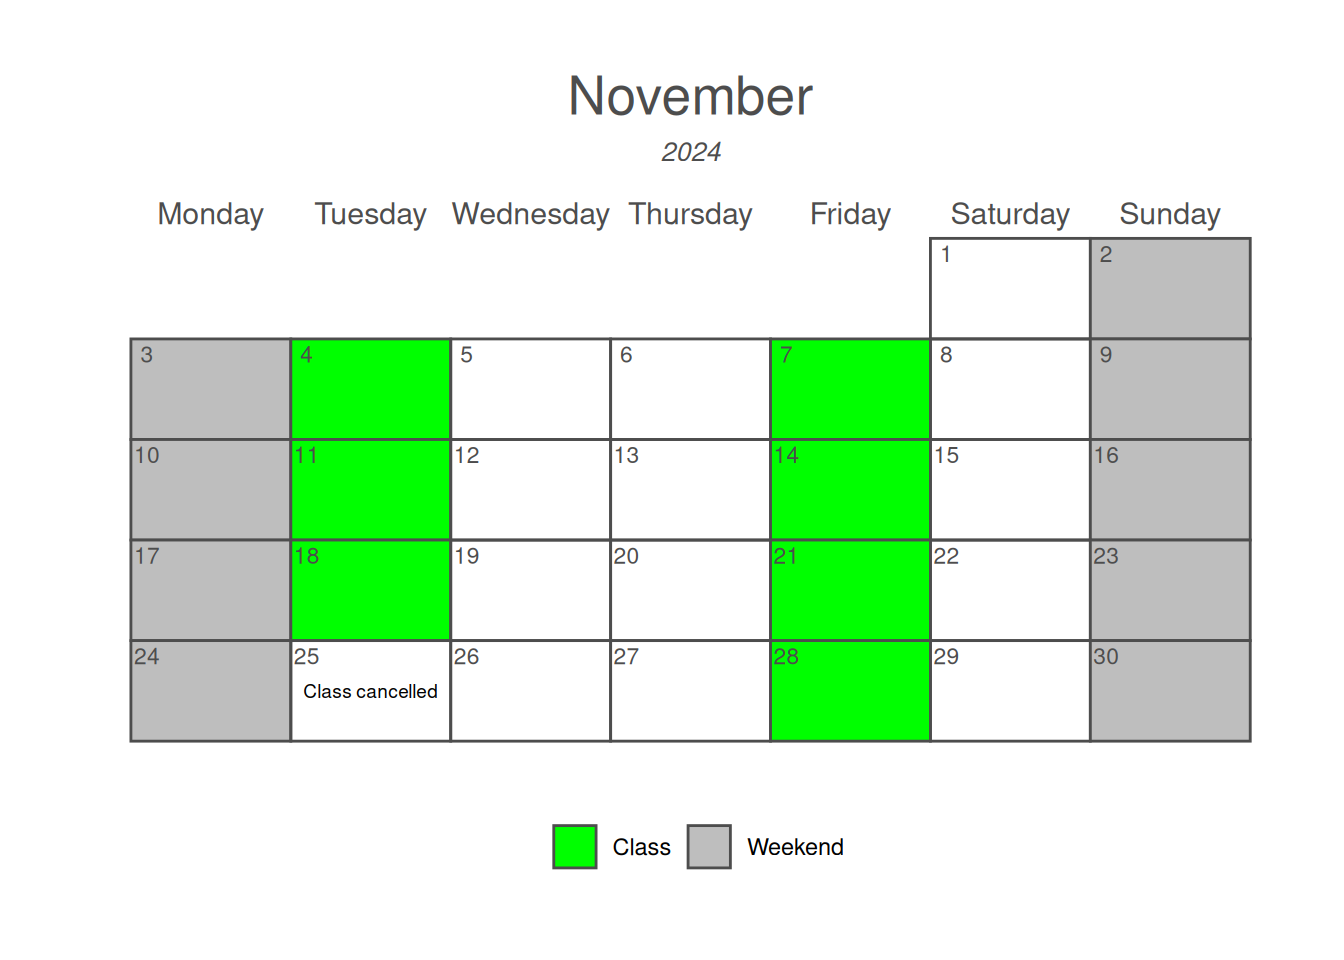
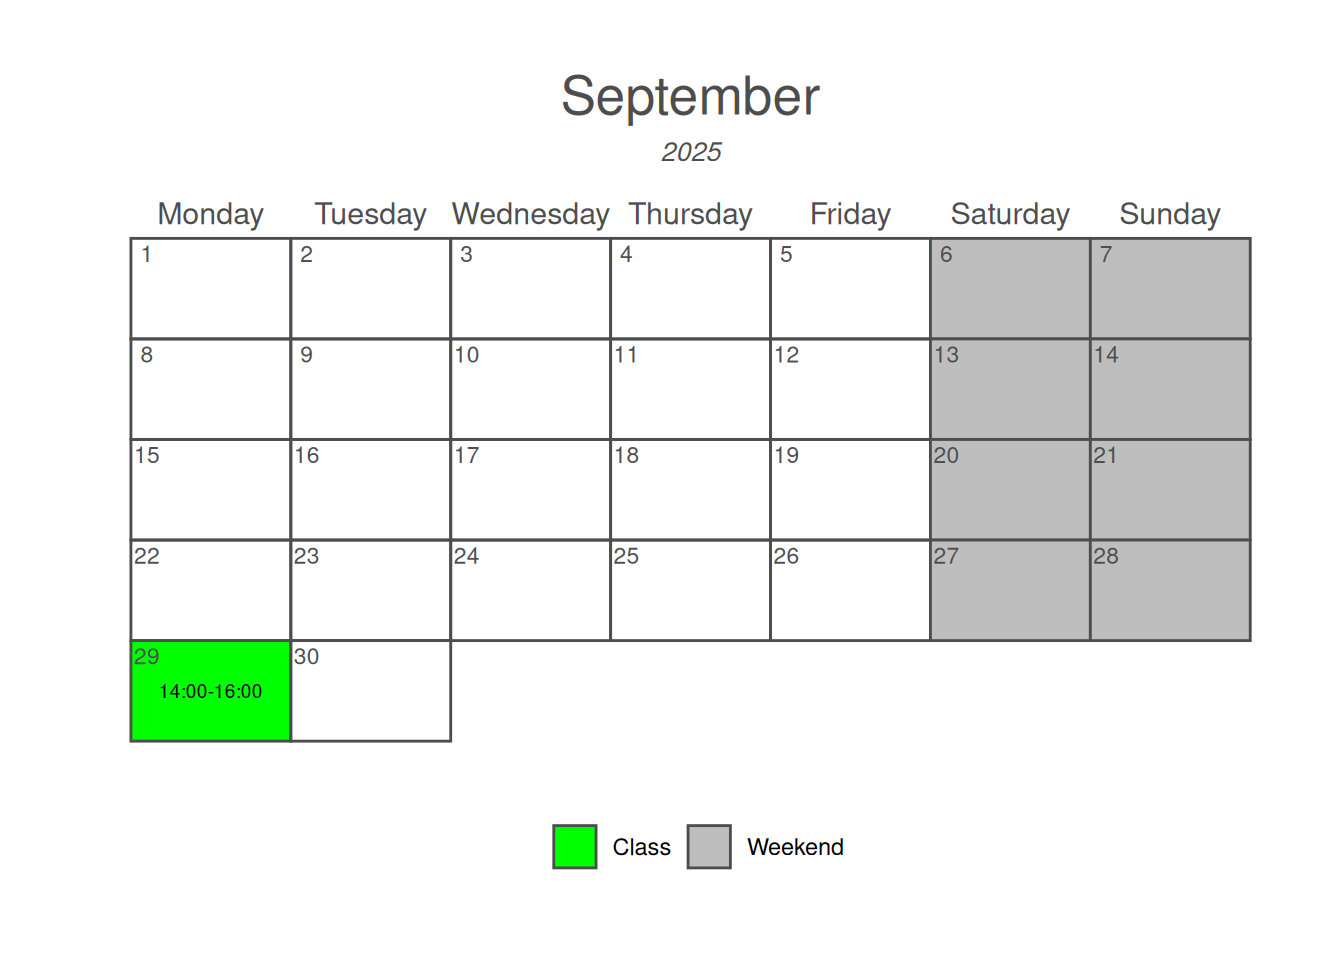
fixing dates and such

diff --git a/docs/index.html b/docs/index.html
@@ -7,9 +7,9 @@
 <meta name="viewport" content="width=device-width, initial-scale=1.0, user-scalable=yes">
 
 <meta name="author" content="Giuliano Colosimo">
-<meta name="dcterms.date" content="2024-09-04">
+<meta name="dcterms.date" content="2025-09-29">
 
-<title>Biologia della Conservazione – Biologia della Conservazione 24/25</title>
+<title>Biologia della Conservazione – Biologia della Conservazione 25/26</title>
 <style>
 code{white-space: pre-wrap;}
 span.smallcaps{font-variant: small-caps;}
@@ -125,10 +125,10 @@ window.Quarto = {
 };
 </script>
 
-<meta property="og:title" content="Biologia della Conservazione – Biologia della Conservazione 24/25">
+<meta property="og:title" content="Biologia della Conservazione – Biologia della Conservazione 25/26">
 <meta property="og:description" content="Evoluzione e Conservazione">
[1 lines of base64/hex data omitted]
-<meta property="og:site_name" content="Biologia della Conservazione 24/25">
+<meta property="og:site_name" content="Biologia della Conservazione 25/26">
 <meta property="og:locale" content="en_US">
 </head>
 
@@ -304,7 +304,7 @@ window.Quarto = {
     <a href="./index.html" class="navbar-brand navbar-brand-logo">
     </a>
     <a class="navbar-brand" href="./index.html">
-    <span class="navbar-title">Biologia della Conservazione 24/25</span>
+    <span class="navbar-title">Biologia della Conservazione 25/26</span>
     </a>
   </div>
             <div id="quarto-search" class="" title="Search"></div>
@@ -429,14 +429,14 @@ window.Quarto = {
     <div>
     <div class="quarto-title-meta-heading">Published</div>
     <div class="quarto-title-meta-contents">
-      <p class="date">September 4, 2024</p>
+      <p class="date">September 29, 2025</p>
     </div>
   </div>
   
     <div>
     <div class="quarto-title-meta-heading">Modified</div>
     <div class="quarto-title-meta-contents">
-      <p class="date-modified">September 8, 2025</p>
+      <p class="date-modified">September 26, 2025</p>
     </div>
   </div>
     
@@ -450,7 +450,7 @@ window.Quarto = {
 <section id="introduction" class="level1">
 <h1>Introduction</h1>
 <p>Welcome to class! These web-pages contain all the information you need to accomplish your class work for the teaching module <strong>Biologia della Conservazione</strong>. This module is part of the integrated course of Evolution and Conservation.</p>
-<p>This is a mandatory module for master level students enrolled in the “Biologia Ambientale” degree at the University of Rome Tor Vergata. It is worth <strong>5 CFU</strong> for a total of 40 hours (i.e., 20 classes of 2 hours each) to be administered in person during the first semester of academic year 2024/2025. The first class will be on Monday, November 4, 2024.</p>
+<p>This is a mandatory module for master level students enrolled in the “Biologia Ambientale” degree at the University of Rome Tor Vergata. It is worth <strong>5 CFU</strong> for a total of 40 hours (i.e., 20 classes of 2 hours each) to be administered in person during the first semester of academic year 2024/2025. The first class will be on Monday, September 29, 2025.</p>
 <section id="program" class="level2">
 <h2 class="anchored" data-anchor-id="program">Program</h2>
 <p>The module introduces students to Conservation Biology, a synthesis and crisis discipline that uses approaches and methods from disciplines such as Ecology, Population biology, Population genetics, Molecular biology, and applies them to the conservation of species, intended as dynamic entities capable to respond to environmental changes. Criteria and principles for the adoption of the different conservation strategies are presented and discussed throughout the course. Moreover, the practical aspects of the various approaches are examined through the study and analysis of real cases, with particular reference to aspects linked to the research lines carried out and coordinated by the teacher.</p>
@@ -459,7 +459,7 @@ window.Quarto = {
 <section id="learning-objectives" class="level2">
 <h2 class="anchored" data-anchor-id="learning-objectives">Learning objectives</h2>
 <p>The course aims at providing students with the most fundamental tools to understand, acknowledge, describe, and address problems related to the conservation of Biodiversity. By the end of the course the students should develop autonomy in the process of understanding of different approaches and methods, consolidating the awareness that conservation biology is a crisis discipline that requires specific analytical skills to guide appropriate interventions.</p>
-<p>Students are expected to develop professional language and communication skills through a continuous interaction with the teacher and interventions during classes. Additionally, students are guided in the understanding of the discipline through the access to primary literature in English. The process of development such skills is monitored by written periodical checks, with open questions.</p>
+<p>Students are expected to develop professional language and communication skills through a continuous interaction with the teacher and interventions during classes. Additionally, students are guided in the understanding of the discipline through the access to primary literature in English. The process of development such skills is monitored by written periodical checks.</p>
 <div class="callout callout-style-default callout-note callout-titled">
 <div class="callout-header d-flex align-content-center">
 <div class="callout-icon-container">
@@ -499,7 +499,7 @@ Note
 <section id="textbook" class="level1">
 <h1>Textbook</h1>
 <p>There is no mandatory textbook to buy!! While this is true, the overall implant of classes and the material presented is largely sourced from the book Conservation Biology <span class="citation" data-cites="VanDyke2020">(<a href="#ref-VanDyke2020" role="doc-biblioref">Dyke &amp; Lamb, 2020</a>)</span>. All students are expected to attend and take notes during lessons. The material covered in class will be complemented with the scientific literature provided by the professor. Moreover, this website will be periodically updated with new and additional resources that could be useful for the successful completion of this class.</p>
-<p>Below is a by-no-means-exhaustive list of books and other resources that I strongly encourage you to look at (especially the free material). This list also includes freely available web applications and/or databases from where it is possible to source and visualize data of interest.</p>
+<p>Below is a BY-NO-MEANS-EXHAUSTIVE list of books and other resources that I strongly encourage you to look at (especially the free material!). This list also includes freely available web applications and/or databases from where it is possible to source and visualize data of interest.</p>
 <ul>
 <li>Introduction to conservation genetics <span class="citation" data-cites="Frankham2010">(<a href="#ref-Frankham2010" role="doc-biblioref">Frankham, Ballou, &amp; Briscoe, 2010</a>)</span></li>
 <li><a href="https://conbio.org/publications/free-textbook">Conservation Biology for all</a>, free downloadable book from <span class="citation" data-cites="Sodhi2010">Sodhi &amp; Ehrlich (<a href="#ref-Sodhi2010" role="doc-biblioref">2010</a>)</span></li>
@@ -511,7 +511,7 @@ Note
 </section>
 <section id="meeting-hours" class="level1">
 <h1>Meeting hours</h1>
-<p>Every student is encouraged to contact me by e-mail with questions, doubts, curiosities about this course. My office hours are between 10:00 and 12:00 every Wednesday. My office is number 14, located on the first floor of the main building at “Laboratori di Ecologia Sperimentale ed Acquacoltura” (see the Contact tab for a map with the location of the office). It is always a good idea to e-mail me before coming to the office, to prevent overcrowding :-)</p>
+<p>Every student is encouraged to contact me by e-mail with questions, doubts, curiosities, and even things you didn’t like about this course. My office hours are between 10:00 and 12:00 every Wednesday. My office is number 14, located on the first floor of the main building at “Laboratori di Ecologia Sperimentale ed Acquacoltura” (see the Contact tab for a map with the location of the office). It is always a good idea to e-mail me before coming to the office, to prevent overcrowding :-)</p>
 </section>
 <section id="students-with-disabilities" class="level1">
 <h1>Students with disabilities</h1>

diff --git a/docs/calendar.html b/docs/calendar.html
@@ -7,9 +7,9 @@
 <meta name="viewport" content="width=device-width, initial-scale=1.0, user-scalable=yes">
 
 <meta name="author" content="Giuliano Colosimo">
-<meta name="dcterms.date" content="2024-11-02">
+<meta name="dcterms.date" content="2025-09-29">
 
-<title>Calendar – Biologia della Conservazione 24/25</title>
+<title>Calendar – Biologia della Conservazione 25/26</title>
 <style>
 code{white-space: pre-wrap;}
 span.smallcaps{font-variant: small-caps;}
@@ -76,10 +76,9 @@ ul.task-list li input[type="checkbox"] {
 }</script>
 
 
-<meta property="og:title" content="Calendar – Biologia della Conservazione 24/25">
-<meta property="og:description" content="">
+<meta property="og:title" content="Calendar – Biologia della Conservazione 25/26">
 <meta property="og:image" content="https://giulianocolosimo.github.com/calendar_files/figure-html/unnamed-chunk-2-1.png">
-<meta property="og:site_name" content="Biologia della Conservazione 24/25">
+<meta property="og:site_name" content="Biologia della Conservazione 25/26">
 <meta property="og:locale" content="en_US">
 <meta property="og:image:height" content="960">
 <meta property="og:image:width" content="1344">
@@ -257,7 +256,7 @@ ul.task-list li input[type="checkbox"] {
     <a href="./index.html" class="navbar-brand navbar-brand-logo">
     </a>
     <a class="navbar-brand" href="./index.html">
-    <span class="navbar-title">Biologia della Conservazione 24/25</span>
+    <span class="navbar-title">Biologia della Conservazione 25/26</span>
     </a>
   </div>
             <div id="quarto-search" class="" title="Search"></div>
@@ -364,7 +363,7 @@ ul.task-list li input[type="checkbox"] {
     <div>
     <div class="quarto-title-meta-heading">Published</div>
     <div class="quarto-title-meta-contents">
-      <p class="date">November 2, 2024</p>
+      <p class="date">September 29, 2025</p>
     </div>
   </div>
   
@@ -385,12 +384,12 @@ ul.task-list li input[type="checkbox"] {
 <div class="cell">
 <div class="cell-output-display">
 <table class="caption-top table table-sm table-striped small">
-<caption>The course will begin on Monday, November 4, 2024. The tentative schedule for mid-terms and final exams will be updated throughout the course.</caption>
+<caption>The course will begin on Monday, September 29, 2025. The tentative schedule for mid-terms and final exams will be updated throughout the course.</caption>
 <colgroup>
-<col style="width: 20%">
-<col style="width: 26%">
-<col style="width: 26%">
-<col style="width: 26%">
+<col style="width: 24%">
+<col style="width: 10%">
+<col style="width: 32%">
+<col style="width: 32%">
 </colgroup>
 <thead>
 <tr class="header">
@@ -404,32 +403,32 @@ ul.task-list li input[type="checkbox"] {
 <tr class="odd">
 <td style="text-align: left;">Lectures</td>
 <td style="text-align: left;">Mon/Thu</td>
-<td style="text-align: left;">11:00-13:00/14:00-16:00</td>
+<td style="text-align: left;">14:00-16:00/14:00-16:00</td>
 <td style="text-align: left;">Aula centro studi pesca</td>
 </tr>
 <tr class="even">
 <td style="text-align: left;">Mid Term Exam - 1</td>
-<td style="text-align: left;">Monday, December 9</td>
-<td style="text-align: left;">14:00-16:00</td>
+<td style="text-align: left;">TBD</td>
+<td style="text-align: left;">TBD</td>
 <td style="text-align: left;">Aula centro studi pesca</td>
 </tr>
 <tr class="odd">
 <td style="text-align: left;">Mid Term Exam - 2</td>
-<td style="text-align: left;">Monday, February 3 2025</td>
-<td style="text-align: left;">14:00-16:00</td>
+<td style="text-align: left;">TBD</td>
+<td style="text-align: left;">TBD</td>
 <td style="text-align: left;">Aula centro studi pesca</td>
 </tr>
 <tr class="even">
 <td style="text-align: left;">Final exam</td>
-<td style="text-align: left;">To be decided</td>
-<td style="text-align: left;">To be decided</td>
+<td style="text-align: left;">TBD</td>
+<td style="text-align: left;">TBD</td>
 <td style="text-align: left;">Aula centro studi pesca</td>
 </tr>
 </tbody>
 </table>
 </div>
 </div>
-<p>Below you will find a temptative schedule for the rest of the semester and a table with the temptative date for your presentation. Manuscript and dates have been assigned in a random way. Please, if you already know that you will not be present on the date that has been assigned to you let me know in time so that I can arrange a schedule change.</p>
+<!-- Below you will find a temptative schedule for the rest of the semester and a table with the temptative date for your presentation. Manuscript and dates have been assigned in a random way. Please, if you already know that you will not be present on the date that has been assigned to you let me know in time so that I can arrange a schedule change. -->
 <div class="callout callout-style-default callout-important callout-titled">
 <div class="callout-header d-flex align-content-center">
 <div class="callout-icon-container">

diff --git a/docs/contact.html b/docs/contact.html
@@ -7,9 +7,9 @@
 <meta name="viewport" content="width=device-width, initial-scale=1.0, user-scalable=yes">
 
 <meta name="author" content="Giuliano Colosimo">
-<meta name="dcterms.date" content="2024-11-02">
+<meta name="dcterms.date" content="2025-09-29">
 
-<title>Contact – Biologia della Conservazione 24/25</title>
+<title>Contact – Biologia della Conservazione 25/26</title>
 <style>
 code{white-space: pre-wrap;}
 span.smallcaps{font-variant: small-caps;}
@@ -86,9 +86,9 @@ ul.task-list li input[type="checkbox"] {
 <script src="site_libs/leaflet-binding-2.2.3/leaflet.js"></script>
 
 
-<meta property="og:title" content="Contact – Biologia della Conservazione 24/25">
+<meta property="og:title" content="Contact – Biologia della Conservazione 25/26">
 <meta property="og:description" content="">
-<meta property="og:site_name" content="Biologia della Conservazione 24/25">
+<meta property="og:site_name" content="Biologia della Conservazione 25/26">
 <meta property="og:locale" content="en_US">
 </head>
 
@@ -264,7 +264,7 @@ ul.task-list li input[type="checkbox"] {
     <a href="./index.html" class="navbar-brand navbar-brand-logo">
     </a>
     <a class="navbar-brand" href="./index.html">
-    <span class="navbar-title">Biologia della Conservazione 24/25</span>
+    <span class="navbar-title">Biologia della Conservazione 25/26</span>
     </a>
   </div>
             <div id="quarto-search" class="" title="Search"></div>
@@ -371,7 +371,7 @@ ul.task-list li input[type="checkbox"] {
     <div>
     <div class="quarto-title-meta-heading">Published</div>
     <div class="quarto-title-meta-contents">
-      <p class="date">November 2, 2024</p>
+      <p class="date">September 29, 2025</p>
     </div>
   </div>
   
@@ -392,8 +392,8 @@ ul.task-list li input[type="checkbox"] {
 <p>Here you can find my contact information. My office is number 14, located on the first floor of the main building at “Laboratori di Ecologia Sperimentale ed Acquacoltura” in Via Cracovia 1, 00133 Rome, Italy.</p>
 <div class="cell">
 <div class="cell-output-display">
-<div class="leaflet html-widget html-fill-item" id="htmlwidget-4039120e25a6cc88c3a6" style="width:100%;height:464px;"></div>
-<script type="application/json" data-for="htmlwidget-4039120e25a6cc88c3a6">{"x":{"options":{"crs":{"crsClass":"L.CRS.EPSG3857","code":null,"proj4def":null,"projectedBounds":null,"options":{}}},"calls":[{"method":"addTiles","args":["https://{s}.tile.openstreetmap.org/{z}/{x}/{y}.png",null,null,{"minZoom":0,"maxZoom":18,"tileSize":256,"subdomains":"abc","errorTileUrl":"","tms":false,"noWrap":false,"zoomOffset":0,"zoomReverse":false,"opacity":1,"zIndex":1,"detectRetina":false,"attribution":"&copy; <a href=\"https://openstreetmap.org/copyright/\">OpenStreetMap<\/a>,  <a href=\"https://opendatacommons.org/licenses/odbl/\">ODbL<\/a>"}]},{"method":"addMarkers","args":[41.85021,12.6298,null,null,null,{"interactive":true,"draggable":false,"keyboard":true,"title":"","alt":"","zIndexOffset":0,"opacity":1,"riseOnHover":false,"riseOffset":250},"Office 14 is located on the first floor of this building",null,null,null,null,{"interactive":false,"permanent":false,"direction":"auto","opacity":1,"offset":[0,0],"textsize":"10px","textOnly":false,"className":"","sticky":true},null]}],"limits":{"lat":[41.85021,41.85021],"lng":[12.6298,12.6298]}},"evals":[],"jsHooks":[]}</script>
+<div class="leaflet html-widget html-fill-item" id="htmlwidget-14c618f627b1dba0e317" style="width:100%;height:464px;"></div>
+<script type="application/json" data-for="htmlwidget-14c618f627b1dba0e317">{"x":{"options":{"crs":{"crsClass":"L.CRS.EPSG3857","code":null,"proj4def":null,"projectedBounds":null,"options":{}}},"calls":[{"method":"addTiles","args":["https://{s}.tile.openstreetmap.org/{z}/{x}/{y}.png",null,null,{"minZoom":0,"maxZoom":18,"tileSize":256,"subdomains":"abc","errorTileUrl":"","tms":false,"noWrap":false,"zoomOffset":0,"zoomReverse":false,"opacity":1,"zIndex":1,"detectRetina":false,"attribution":"&copy; <a href=\"https://openstreetmap.org/copyright/\">OpenStreetMap<\/a>,  <a href=\"https://opendatacommons.org/licenses/odbl/\">ODbL<\/a>"}]},{"method":"addMarkers","args":[41.85021,12.6298,null,null,null,{"interactive":true,"draggable":false,"keyboard":true,"title":"","alt":"","zIndexOffset":0,"opacity":1,"riseOnHover":false,"riseOffset":250},"Office 14 is located on the first floor of this building",null,null,null,null,{"interactive":false,"permanent":false,"direction":"auto","opacity":1,"offset":[0,0],"textsize":"10px","textOnly":false,"className":"","sticky":true},null]}],"limits":{"lat":[41.85021,41.85021],"lng":[12.6298,12.6298]}},"evals":[],"jsHooks":[]}</script>
 </div>
 </div>
 <p><br></p>
